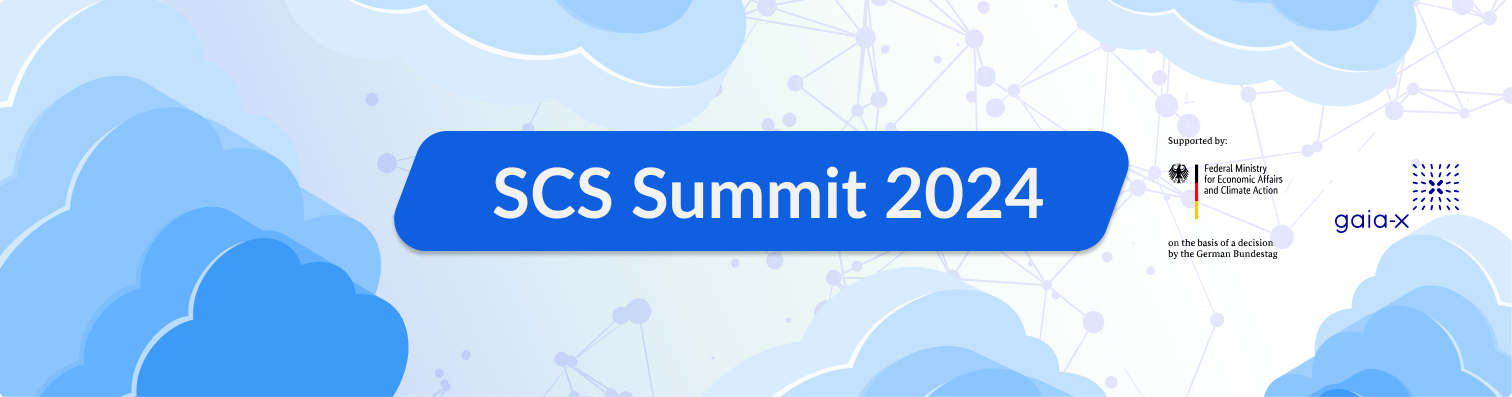
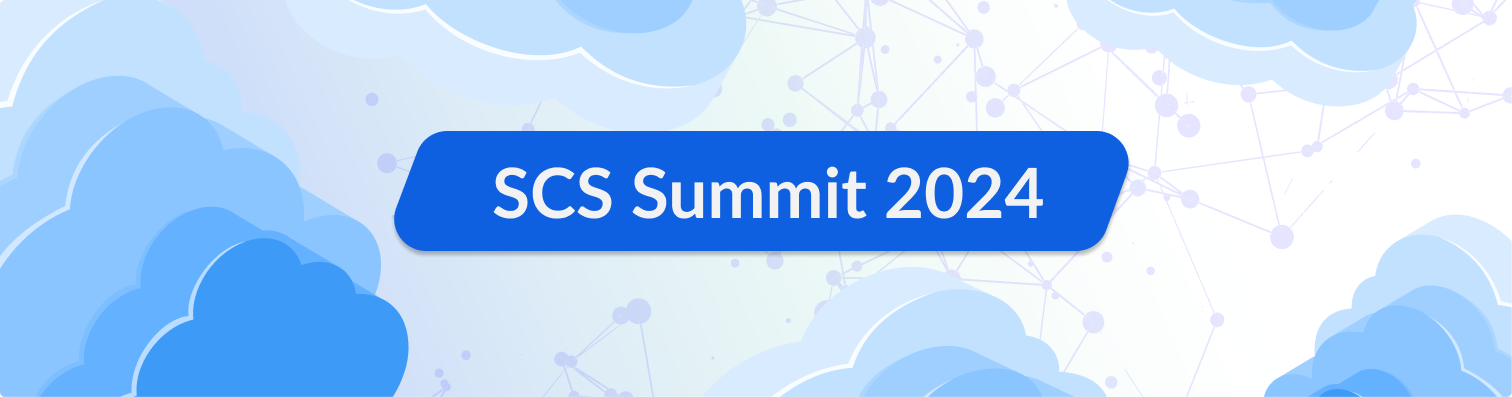
Fix summit typos (#674)
* fix typos

* remove duplicate logos from banner

---------

diff --git a/_i18n/en/summit2024.md b/_i18n/en/summit2024.md
@@ -6,11 +6,11 @@ Thank You for Making the Sovereign Cloud Stack Summit 2023 a Huge Success!
 
 We extend our heartfelt gratitude to all the participants, sponsors, and supporters who made the recent Sovereign Cloud Stack Summit an incredible milestone in advancing the future of cloud technology. Your unwavering commitment and enthusiasm have greatly contributed to the success of this global event.
 
-[Here](https://scs.community/summit2023) you will find the presentations und slides of the Summit 2023.
+[Here](https://scs.community/summit2023) you will find the presentations and slides of the Summit 2023.
 
 **Mark Your Calendars: The Sovereign Cloud Stack Summit is returning in 2024!**
 
-We are delighted to announce that the next edition of the Sovereign Cloud Stack Summit will take place in [City, Country] on [Date]. Join us as we continue our journey towards a more secure, decentralized, and sovereign cloud ecosystem.
+We are delighted to announce that the next edition of the Sovereign Cloud Stack Summit will take place in Berlin, May 2024. Join us as we continue our journey towards a more secure, decentralized, and sovereign cloud ecosystem.
 
 Stay tuned for an exciting lineup of keynote speakers, insightful panel discussions, engaging workshops, and networking opportunities that will shape the future of the sovereign cloud stack. The program for the summit will be announced later this year, so make sure to visit our website regularly for updates.
 

diff --git a/_i18n/de/summit2024.md b/_i18n/de/summit2024.md
@@ -8,7 +8,7 @@ Wir bedanken uns herzlich bei allen Teilnehmern, Sponsoren und Unterstützern, d
 
 **Merken Sie sich Ihren Kalender vor: Der Sovereign Cloud Stack Summit wird 2024 wieder stattfinden!**
 
-Wir freuen uns, Ihnen mitteilen zu können, dass die nächste Ausgabe des Sovereign Cloud Stack Summit am [Datum] in [Stadt, Land] stattfinden wird. Seien Sie dabei, wenn wir unsere Reise zu einem sichereren, dezentralisierten und souveränen Cloud-Ökosystem fortsetzen.
+Wir freuen uns, Ihnen mitteilen zu können, dass die nächste Ausgabe des Sovereign Cloud Stack Summit in Berlin im Mai 2024 stattfinden wird. Seien Sie dabei, wenn wir unsere Reise zu einem sichereren, dezentralisierten und souveränen Cloud-Ökosystem fortsetzen.
 
 Freuen Sie sich auf ein spannendes Programm mit Hauptrednern, aufschlussreichen Podiumsdiskussionen, spannenden Workshops und Networking-Möglichkeiten, die die Zukunft des Sovereign Cloud Stack gestalten werden. Das Programm des Gipfels wird im Laufe des Jahres bekannt gegeben, besuchen Sie also regelmäßig unsere Website, um sich auf dem Laufenden zu halten.
 
